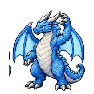
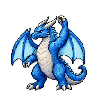
Stabilize dragon claw recovery and refine original face

diff --git a/design/enemies/dragon_frost/attack_claw/PROMPT.md b/design/enemies/dragon_frost/attack_claw/PROMPT.md
@@ -1,1 +1,1 @@
-Built-in image_gen. Base: ../move/dragon_frost_1.png. Generate entire coherent ten-frame5x2 transparent sprite sheet of same blue frost dragon, small blue eyes and original detailed pixel-art. Frame1 normal,2 lifting elbow,3 shoulder high,4 above head,5 full windup,6 fast downward diagonal claw slash,7 low followthrough,8 return,9 nearly resting,10 normal. Viewer-right/front forearm attacks; grounded hindfeet, stable wings and tail. No fire, weapons, slash effects or pasted body parts. Export ten94x94 transparent PNGs in numeric order. Preview frame delays(ms): 180,120,120,140,140,80,80,120,120,180.
+Built-in image_gen. Base: ../move/dragon_frost_1.png. Generate entire coherent ten-frame5x2 transparent sprite sheet of same blue frost dragon, small blue eyes and original detailed pixel-art. Frame1 normal,2 lifting elbow,3 shoulder high,4 above head,5 full windup,6 fast downward diagonal claw slash,7 low followthrough,8 return,9 nearly resting,10 normal. Viewer-right/front forearm attacks; grounded hindfeet, stable wings and tail. No fire, weapons, slash effects or pasted body parts. Export ten94x94 transparent PNGs in numeric order. Correction: planted feet baseline y91 in every frame, stable hips and head, original narrow blue-eyed face, frame10 equals frame1. Preview frame delays(ms): 180,120,120,140,140,80,80,120,120,180.
